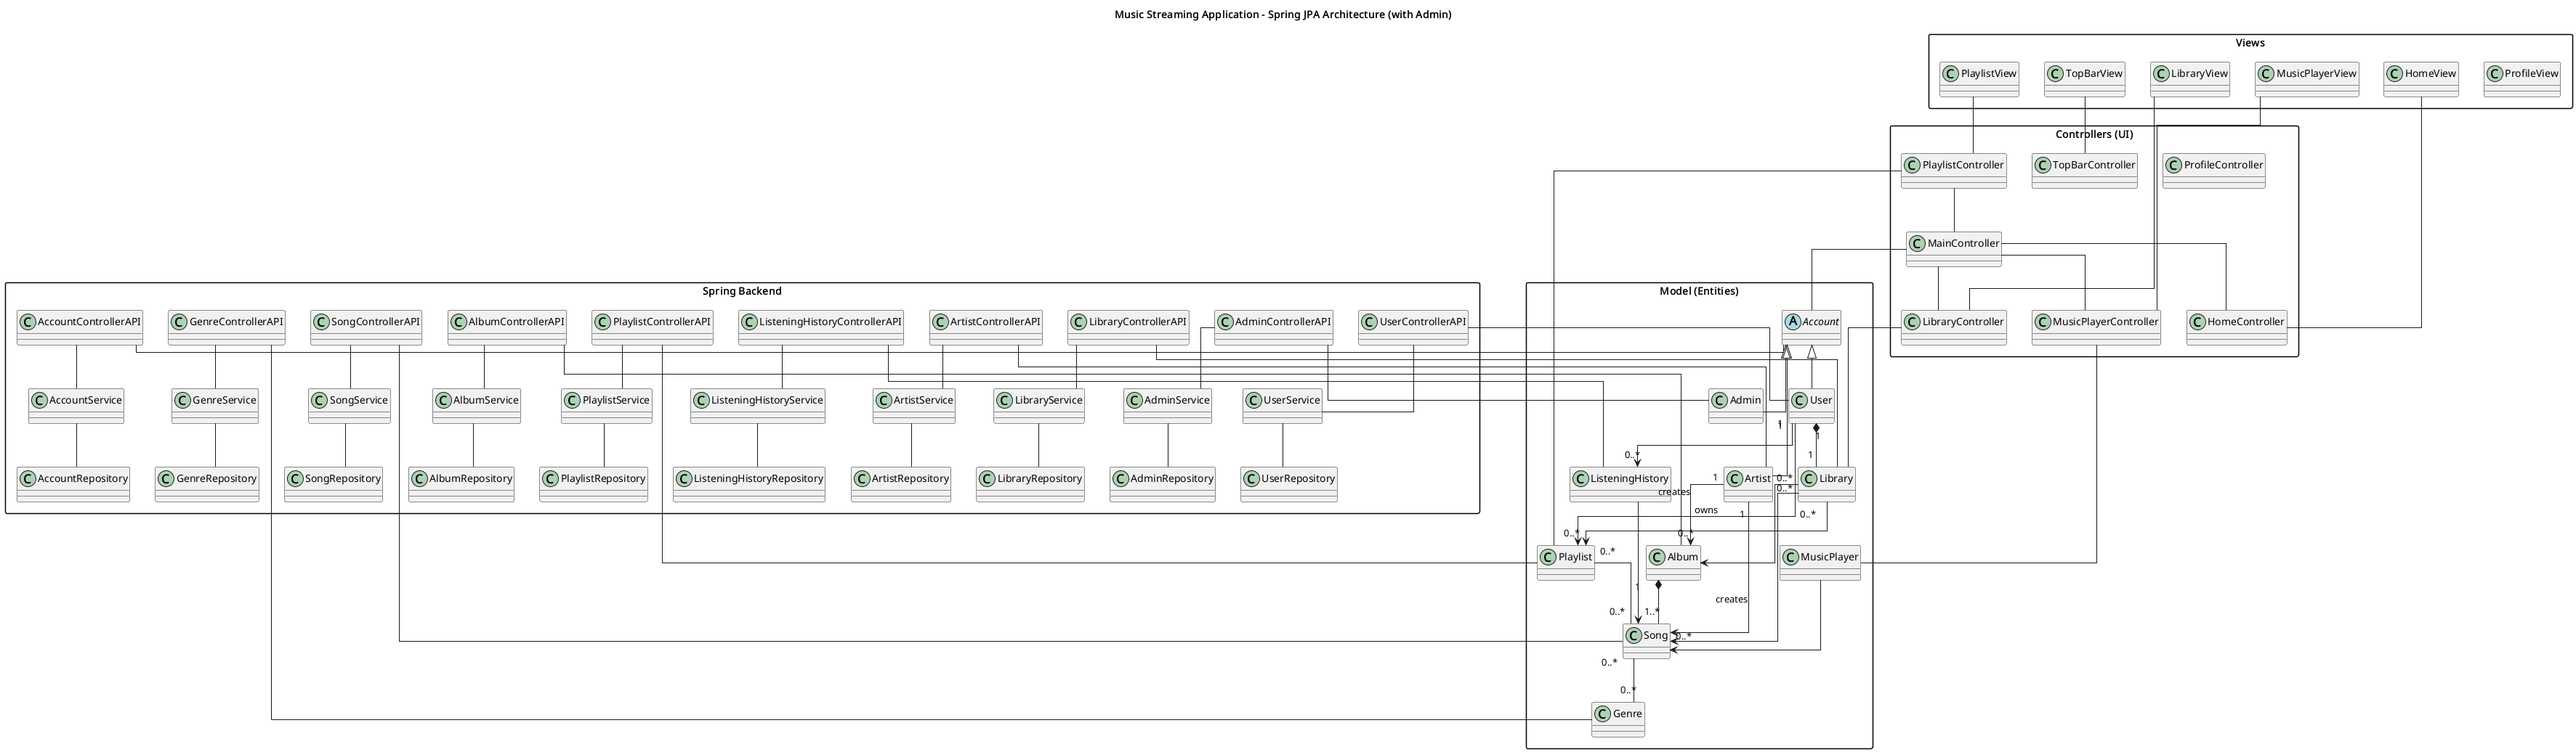
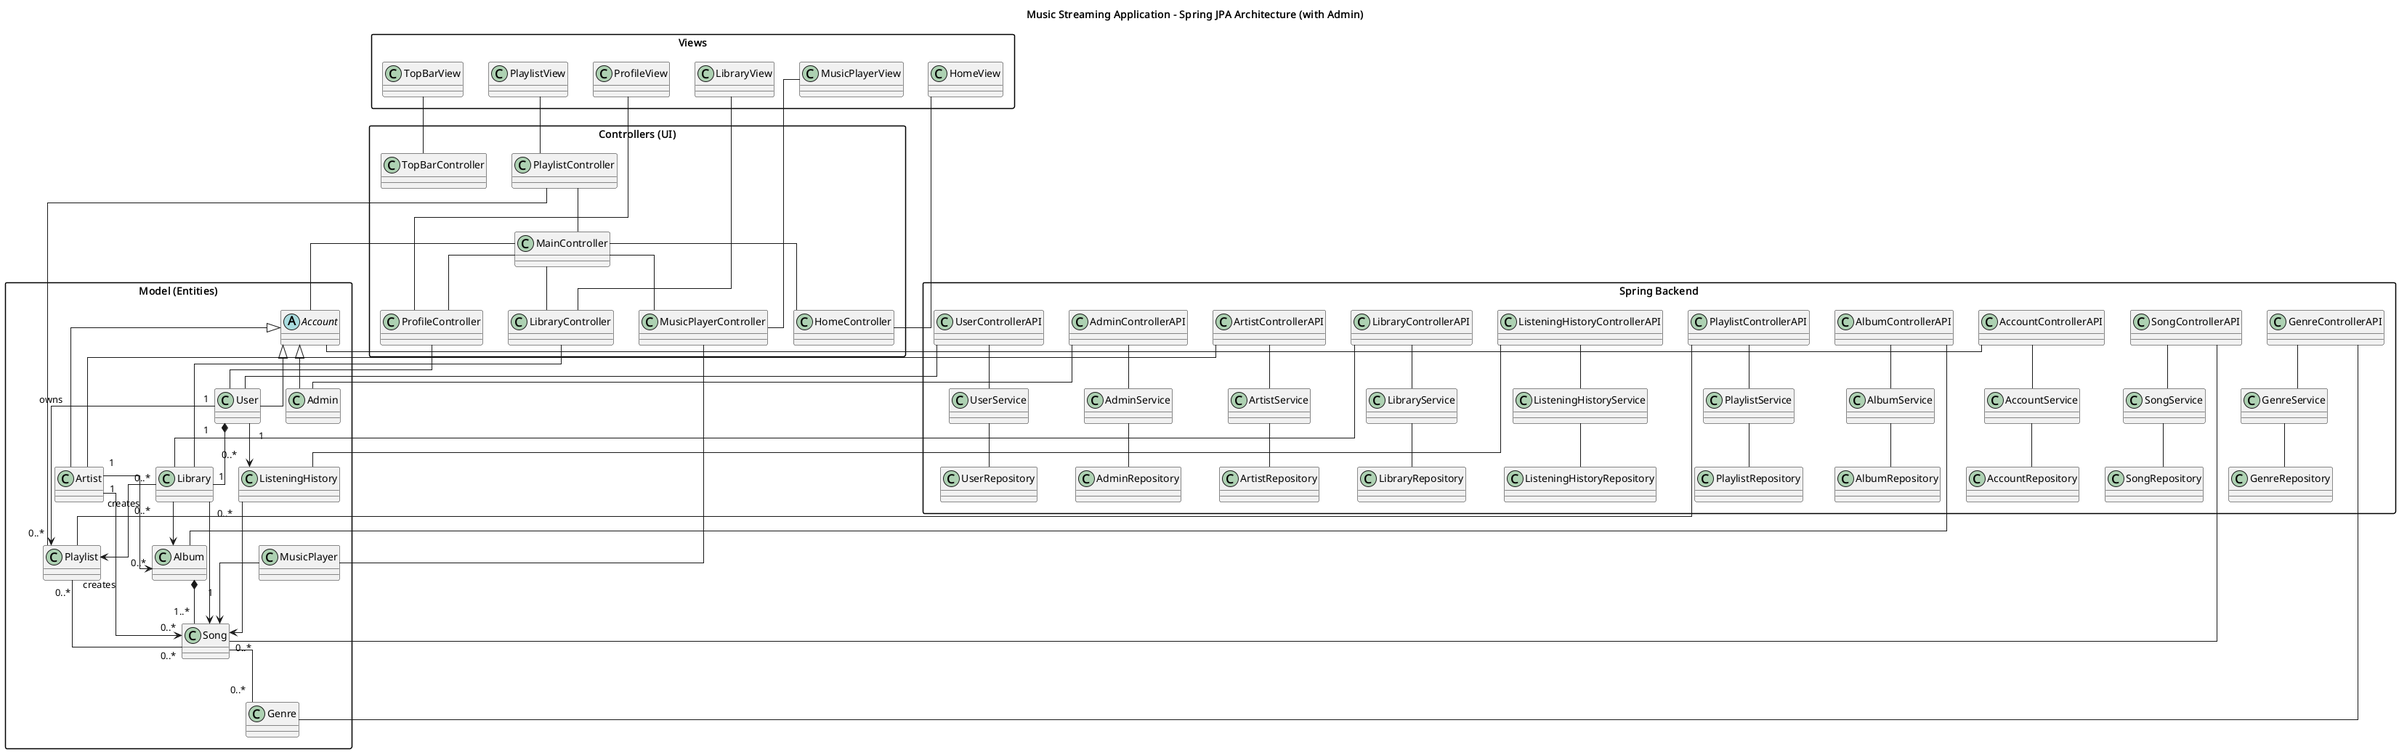
Further updates to domain model and previous sequence diagram

diff --git a/Paradoteo_2/Domain-Model-v0.3.md b/Paradoteo_2/Domain-Model-v0.3.md
@@ -87,7 +87,9 @@ package "Views" {
 MusicPlayerController -- MusicPlayer
 MusicPlayerView -- MusicPlayerController
 MainController -- MusicPlayerController
-
+MainController -- ProfileController
+ProfileView -- ProfileController
+ProfileController -- User
 HomeView -- HomeController
 MainController -- HomeController
 
